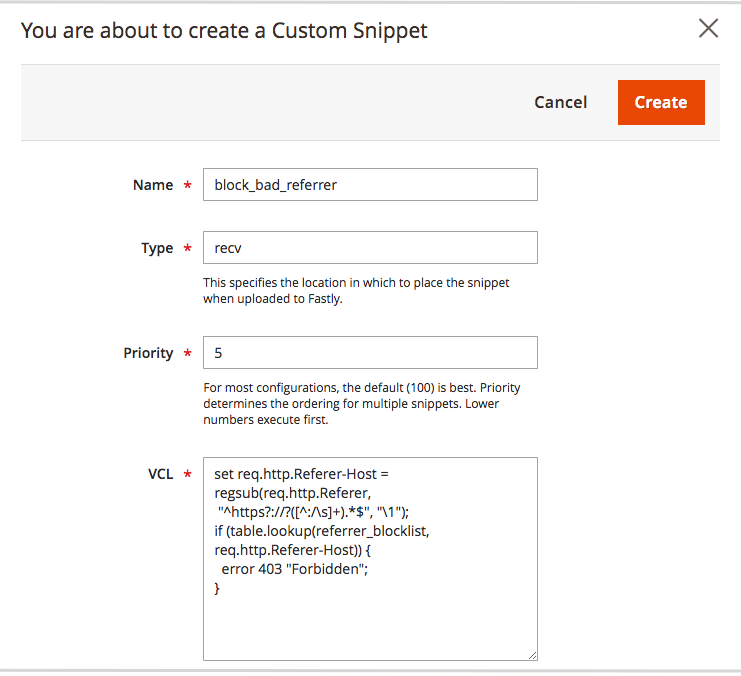
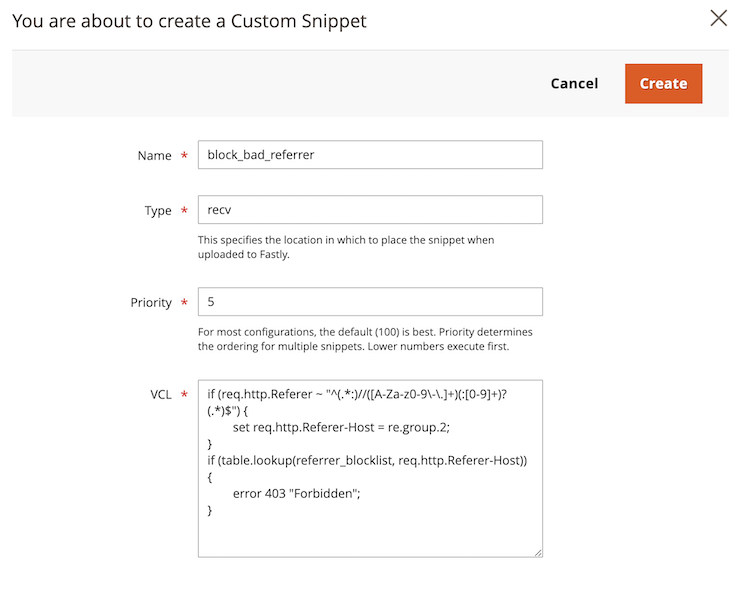
Update block bad referer regex to properly capture host header.

diff --git a/help/cloud-guide/cdn/fastly-vcl-badreferer.md b/help/cloud-guide/cdn/fastly-vcl-badreferer.md
@@ -64,7 +64,7 @@ The following custom VCL snippet code (JSON format) shows the logic to check and
   "dynamic": "0",
   "type": "recv",
   "priority": "5",
-  "content": "set req.http.Referer-Host = regsub(req.http.Referer, \"^https?:\/\/?([^:\/s]+).*$\", \"\\1\"); if (table.lookup(referrer_blocklist, req.http.Referer-Host)) { error 403 \"Forbidden\"; }"
+  "content": "if (req.http.Referer ~ \"^(.*:)//([A-Za-z0-9\-\.]+)(:[0-9]+)?(.*)$\") {set req.http.Referer-Host = re.group.2;}if (table.lookup(referrer_blocklist, req.http.Referer-Host)) {error 403 \"Forbidden\";}"
 }
 ```
 
@@ -107,8 +107,9 @@ After reviewing and updating the code for your environment, use either of the fo
    -  **VCL** snippet content —
 
       ```conf
-      set req.http.Referer-Host = regsub(req.http.Referer,
-      "^https?://?([^:/\s]+).*$", "1");
+      if (req.http.Referer ~ "^(.*:)//([A-Za-z0-9\-\.]+)(:[0-9]+)?(.*)$") {
+        set req.http.Referer-Host = re.group.2;  
+      }
       if (table.lookup(referrer_blocklist, req.http.Referer-Host)) {
         error 403 "Forbidden";
       }
